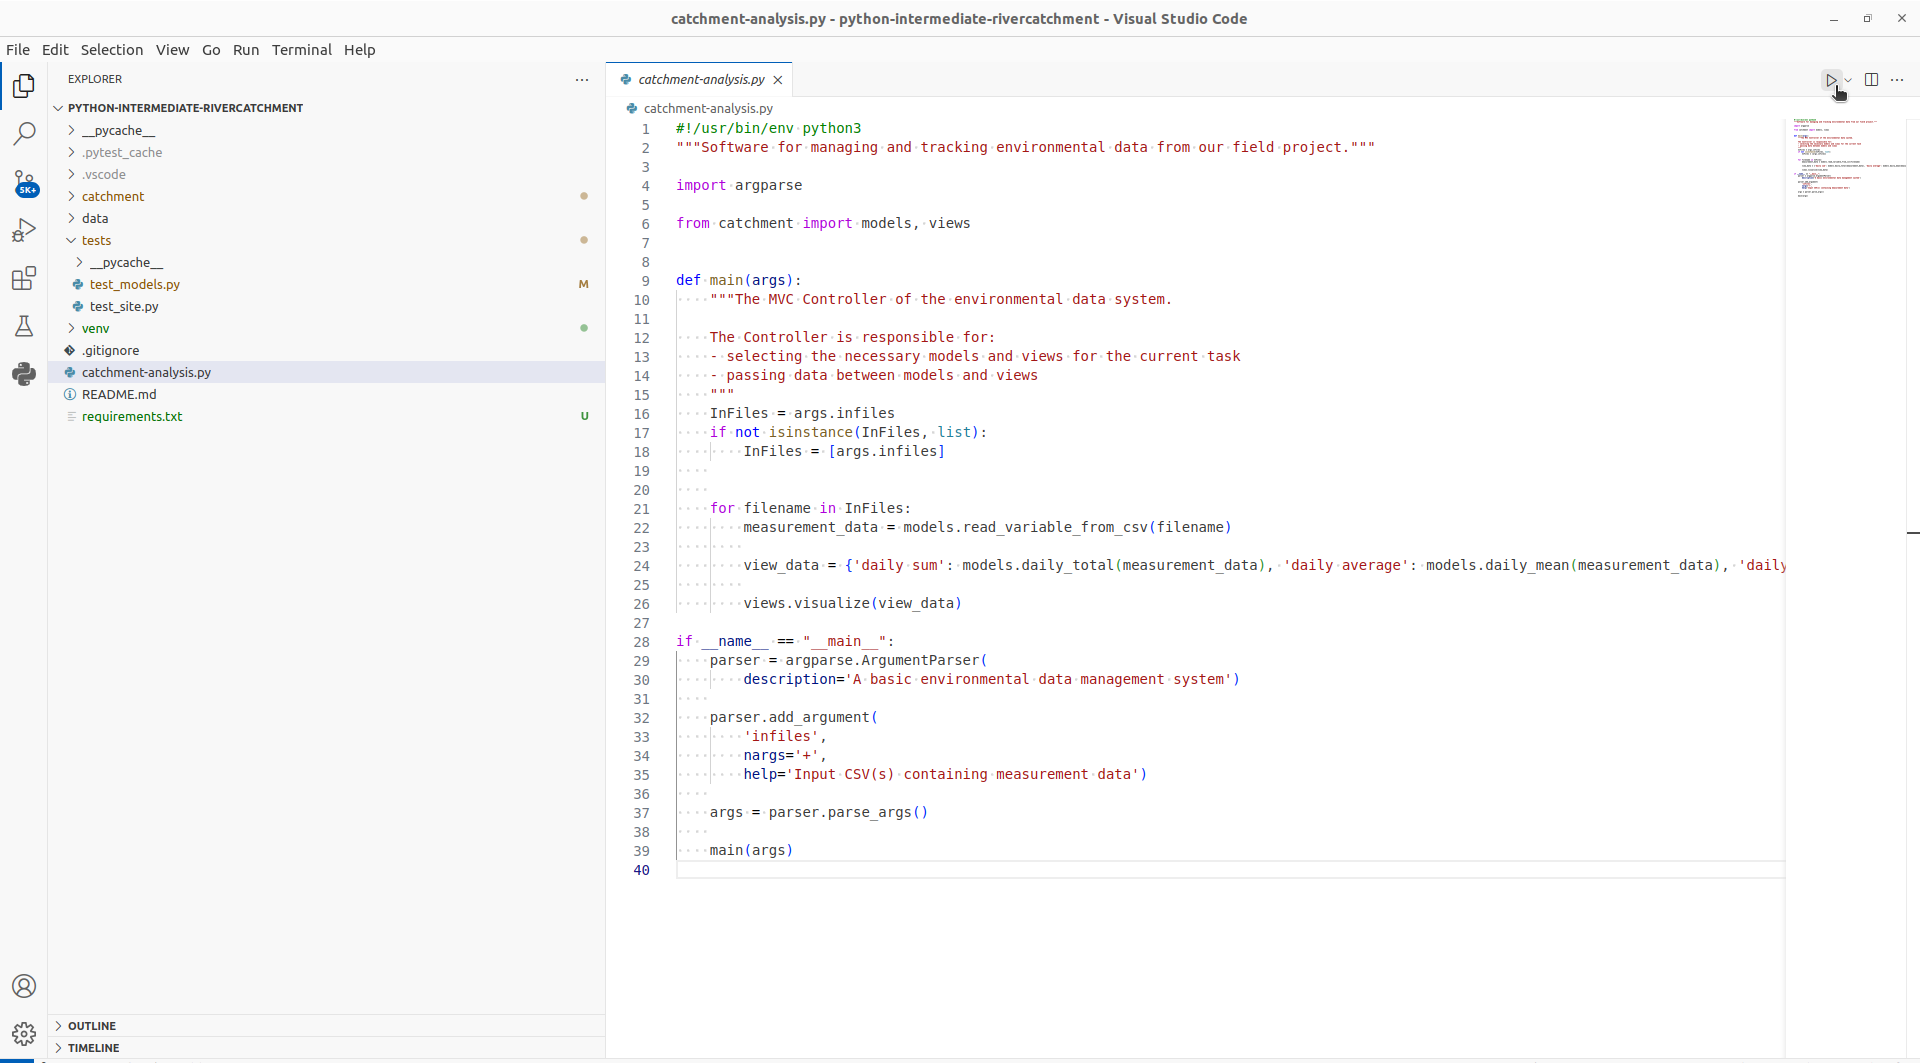
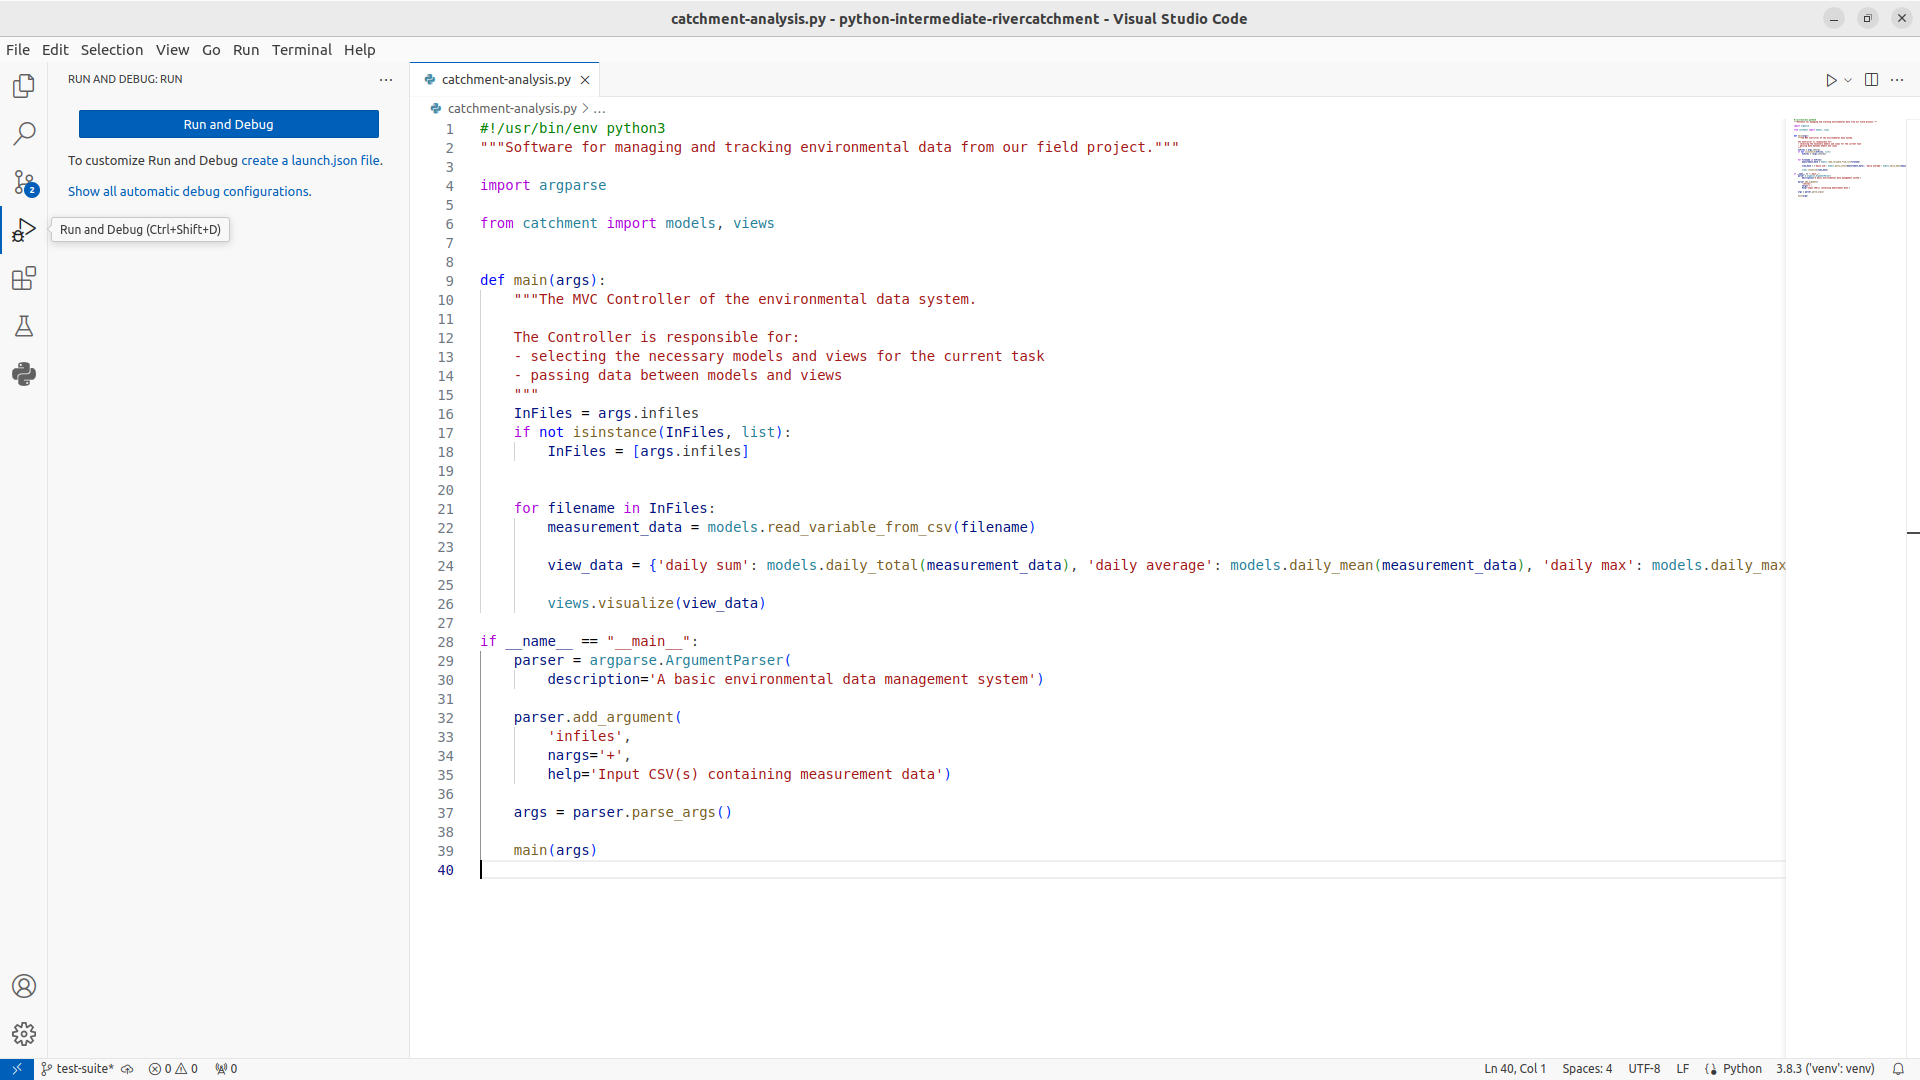
Replaced run script figure and related text to match it

diff --git a/episodes/13-ides.md b/episodes/13-ides.md
@@ -394,14 +394,14 @@ Let's do this as an exercise.
 {: .challenge}
 
 #### Adding a Run Configuration for Our Project
-By default, if you click on the run button (see figure below)
-the file that is run by the interpreter is that which is currently open in the editor window.
+By default, if you click on the run button on the Activity Bar (see figure below) 
+VS Code will look in the `.vscode` folder for a `launch.json` file. This file would contain our run configurations and 
+as you can see, if one is not found, you will be asked to create one.
 
 ![Running single scripts in VS Code](../fig/vs-code-run-script.png){: .image-with-shadow width="1000px" }
 
-This is okay when working with only one python script,
-but what if we want to run our program while editing one of the module files,
-or if we want to run different configurations?
+Configurations are useful for running the code whilst editing and 
+if we need to test different configurations as we code.
 To do this we need to create some custom run configurations,
 which can be done from the `Run and Debug` panel.
 
